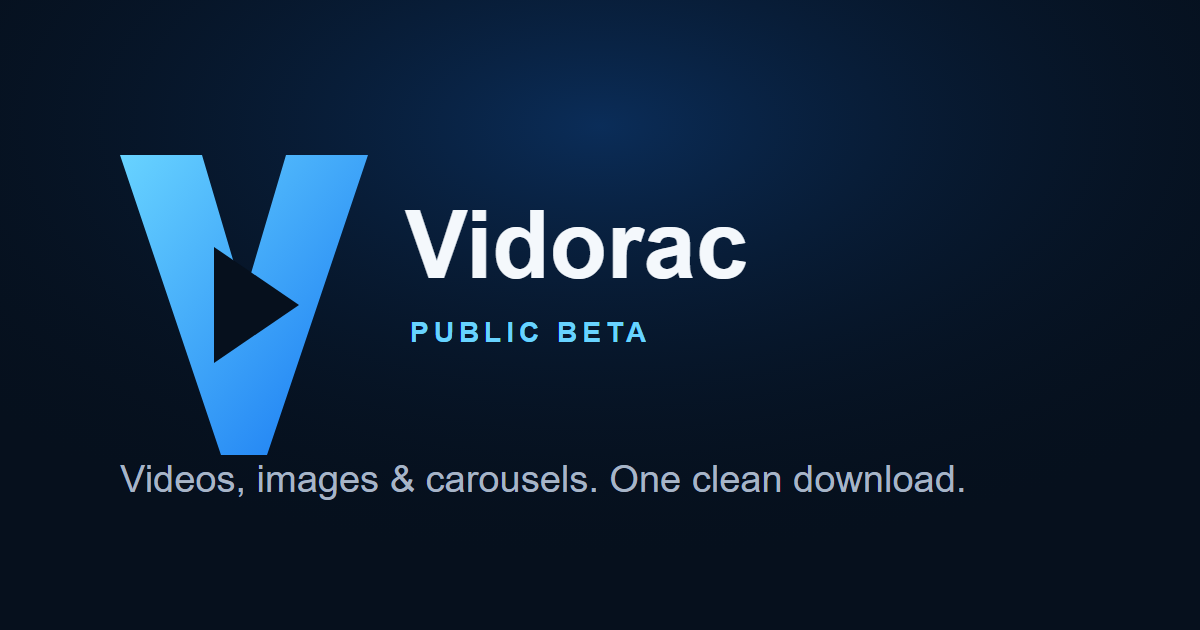
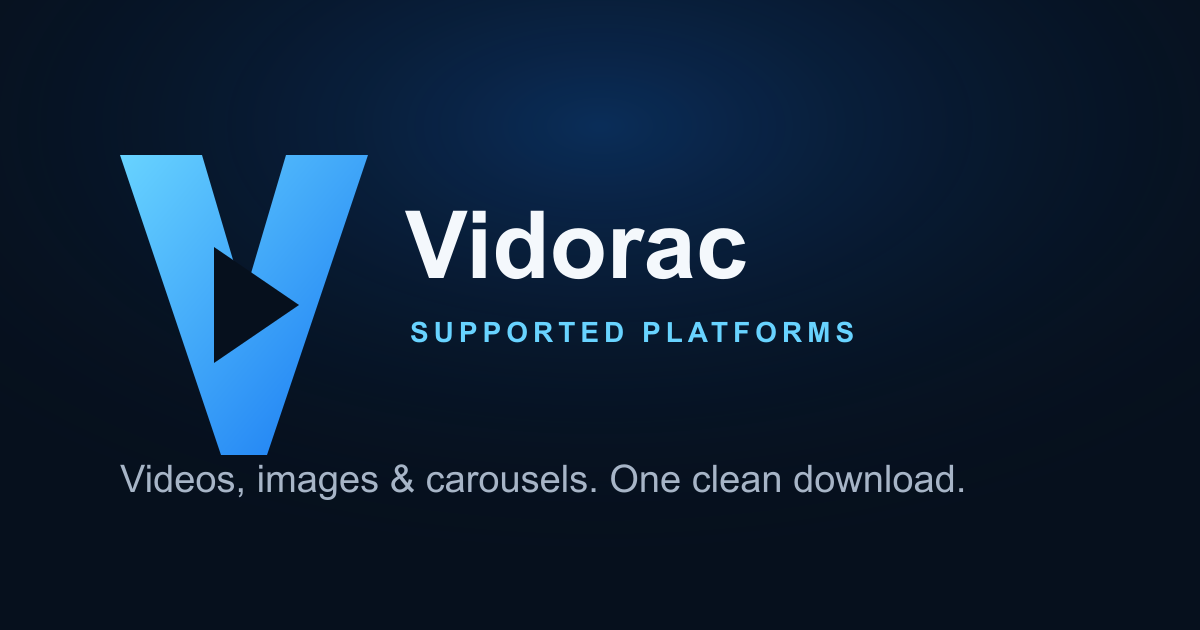
Refine CTA typography and complete AdSense readiness audit

diff --git a/frontend/src/app/terms/page.tsx b/frontend/src/app/terms/page.tsx
@@ -4,7 +4,7 @@ import { informationMetadata } from "../seo";
 
 export const metadata = informationMetadata({
   title: "Terms of Use | Vidorac",
-  description: "Read the terms that apply when using Vidorac to process publicly accessible TikTok media.",
+  description: "Read the terms that apply when using Vidorac to process publicly accessible media from supported platforms.",
   slug: "terms",
 });
 
@@ -13,13 +13,13 @@ export default function TermsPage() {
     <InformationPage
       eyebrow="Legal"
       title="Terms of Use"
-      intro="These terms describe the responsible use of Vidorac during its public beta."
+      intro="These terms describe the responsible use of Vidorac."
     >
       <p className="information-updated">Last updated: September 2026</p>
 
       <section>
         <h2>Service</h2>
-        <p>Vidorac is a public beta tool for processing publicly accessible TikTok videos, photo slideshows and audio.</p>
+        <p>Vidorac is a tool for processing publicly accessible media from supported platforms, including TikTok, Instagram, Facebook, Reddit and X.</p>
       </section>
 
       <section>
@@ -39,12 +39,12 @@ export default function TermsPage() {
 
       <section>
         <h2>Third-party platforms</h2>
-        <p>Vidorac is not affiliated with TikTok or ByteDance. Their trademarks belong to their respective owners, and use of TikTok remains subject to its applicable terms.</p>
+        <p>Vidorac is independent and is not affiliated with or endorsed by TikTok, Instagram, Facebook, Reddit, X or their owners. Their trademarks belong to their respective owners, and use of each platform remains subject to its applicable terms.</p>
       </section>
 
       <section>
         <h2>Availability</h2>
-        <p>Vidorac is currently a beta service. Availability is not guaranteed, and TikTok changes may temporarily affect supported formats or qualities. The service may be changed, interrupted or unavailable while improvements are made.</p>
+        <p>Availability is not guaranteed, and changes made by supported platforms may temporarily affect formats or qualities. The service may be changed, interrupted or unavailable while improvements are made.</p>
       </section>
 
       <section>
@@ -54,12 +54,12 @@ export default function TermsPage() {
 
       <section>
         <h2>No warranty</h2>
-        <p>Vidorac is provided as a public beta without guarantees of uninterrupted or error-free availability. We aim to keep the service useful and reliable, but cannot promise that every source, platform or format will always work.</p>
+        <p>Vidorac is provided without guarantees of uninterrupted or error-free availability. We aim to keep the service useful and reliable, but cannot promise that every source, platform or format will always work.</p>
       </section>
 
       <section>
         <h2>Changes</h2>
-        <p>Vidorac may update the service and these Terms as the beta develops. The latest revision date will be shown on this page.</p>
+        <p>Vidorac may update the service and these Terms as the service develops. The latest revision date will be shown on this page.</p>
       </section>
 
       <section>

diff --git a/frontend/src/app/globals.css b/frontend/src/app/globals.css
@@ -22,7 +22,7 @@
 @theme inline {
   --color-background: var(--background);
   --color-foreground: var(--text);
-  --font-sans: var(--font-geist-sans);
+  --font-sans: var(--font-home-sans);
   --font-mono: var(--font-geist-mono);
 }
 
@@ -38,7 +38,7 @@ body {
   overflow-x: hidden;
   background: var(--background);
   color: var(--text);
-  font-family: var(--font-geist-sans), Arial, Helvetica, sans-serif;
+  font-family: var(--font-home-sans), Arial, Helvetica, sans-serif;
 }
 
 button,
@@ -1759,7 +1759,7 @@ button { -webkit-tap-highlight-color: transparent; }
   width: min(calc(100% - 2rem), 73.75rem);
   min-width: 0;
   margin-inline: auto;
-  font-family: var(--font-home-sans), var(--font-geist-sans), sans-serif;
+  font-family: var(--font-home-sans), Arial, Helvetica, sans-serif;
 }
 
 .home-ad-rail { display: none; }
@@ -1789,7 +1789,7 @@ button { -webkit-tap-highlight-color: transparent; }
   max-width: 58rem;
   flex-direction: column;
   margin-top: 1.35rem;
-  font-family: var(--font-home-sans), var(--font-geist-sans), sans-serif;
+  font-family: var(--font-home-sans), Arial, Helvetica, sans-serif;
   font-size: clamp(3.2rem, 7vw, 5.8rem);
   font-weight: 760;
   letter-spacing: -0.072em;
@@ -2121,7 +2121,7 @@ button { -webkit-tap-highlight-color: transparent; }
 
 /* Shared editorial typography for every downloader page */
 .platform-page {
-  font-family: var(--font-home-sans), var(--font-geist-sans), sans-serif;
+  font-family: var(--font-home-sans), Arial, Helvetica, sans-serif;
 }
 
 .downloader-hero-heading {
@@ -2136,7 +2136,7 @@ button { -webkit-tap-highlight-color: transparent; }
   max-width: 62rem;
   flex-direction: column;
   margin: 1rem auto 0;
-  font-family: var(--font-home-sans), var(--font-geist-sans), sans-serif;
+  font-family: var(--font-home-sans), Arial, Helvetica, sans-serif;
   font-size: clamp(2.7rem, 5.8vw, 4.75rem);
   font-weight: 760;
   letter-spacing: -0.066em;
@@ -2180,7 +2180,7 @@ button { -webkit-tap-highlight-color: transparent; }
   flex-direction: column;
   margin-top: 0.5rem;
   color: var(--text);
-  font-family: var(--font-home-sans), var(--font-geist-sans), sans-serif;
+  font-family: var(--font-home-sans), Arial, Helvetica, sans-serif;
   font-size: clamp(1.65rem, 3vw, 2.35rem);
   font-weight: 720;
   letter-spacing: -0.045em;
@@ -2411,14 +2411,14 @@ button { -webkit-tap-highlight-color: transparent; }
 }
 
 .serif-action-label {
-  font-family: var(--font-home-serif), Georgia, serif;
-  font-size: 1.05rem;
+  font-family: Georgia, "Times New Roman", serif;
+  font-size: 15px;
   font-style: normal;
-  font-weight: 400;
-  letter-spacing: -0.01em;
+  font-weight: 600;
+  letter-spacing: -0.015em;
   line-height: 1;
 }
 
 @media (max-width: 390px) {
-  .serif-action-label { font-size: 1rem; }
+  .serif-action-label { font-size: 14px; }
 }

diff --git a/frontend/src/app/layout.tsx b/frontend/src/app/layout.tsx
@@ -1,17 +1,12 @@
 import type { Metadata } from "next";
 import type { ReactNode } from "react";
-import { Geist, Geist_Mono, Instrument_Serif, Manrope } from "next/font/google";
+import { Geist_Mono, Instrument_Serif, Manrope } from "next/font/google";
 import "./globals.css";
 import SiteHeader from "./site-header";
 import { DonationProvider } from "./donation-modal";
 import { getSupportUrl } from "./support-config";
-import { OG_IMAGE_PATH, SITE_URL } from "./seo";
+import { OG_IMAGE_ALT, OG_IMAGE_PATH, SITE_URL } from "./seo";
 import { TelegramTopBar } from "./telegram-promotion";
-
-const geistSans = Geist({
-  variable: "--font-geist-sans",
-  subsets: ["latin"],
-});
 
 const geistMono = Geist_Mono({
   variable: "--font-geist-mono",
@@ -33,7 +28,7 @@ const homeSerif = Instrument_Serif({
 export const metadata: Metadata = {
   metadataBase: new URL(SITE_URL),
   title: {
-    default: "Vidorac - Free Video Downloader",
+    default: "Vidorac — Video Downloader for TikTok, Instagram, Facebook, Reddit & X",
     template: "%s — Vidorac",
   },
   description: "Download videos and media from TikTok, Instagram, Facebook, Reddit and X with Vidorac.",
@@ -47,16 +42,16 @@ export const metadata: Metadata = {
     shortcut: "/branding/vidorac-icon.svg",
   },
   openGraph: {
-    title: "Vidorac - Free Video Downloader",
+    title: "Vidorac — Video Downloader for TikTok, Instagram, Facebook, Reddit & X",
     description: "Download videos and media from TikTok, Instagram, Facebook, Reddit and X with Vidorac.",
     url: "/",
     siteName: "Vidorac",
     type: "website",
-    images: [{ url: OG_IMAGE_PATH, width: 1200, height: 630, alt: "Vidorac public beta" }],
+    images: [{ url: OG_IMAGE_PATH, width: 1200, height: 630, alt: OG_IMAGE_ALT }],
   },
   twitter: {
     card: "summary_large_image",
-    title: "Vidorac - Free Video Downloader",
+    title: "Vidorac — Video Downloader for TikTok, Instagram, Facebook, Reddit & X",
     description: "Download videos and media from TikTok, Instagram, Facebook, Reddit and X with Vidorac.",
     images: [OG_IMAGE_PATH],
   },
@@ -66,7 +61,7 @@ export default function RootLayout({ children }: { children: ReactNode }) {
   return (
     <html
       lang="en"
-      className={`${geistSans.variable} ${geistMono.variable} ${homeSans.variable} ${homeSerif.variable} h-full antialiased`}
+      className={`${geistMono.variable} ${homeSans.variable} ${homeSerif.variable} h-full antialiased`}
     >
       <body className="min-h-full flex flex-col">
         <DonationProvider supportUrl={getSupportUrl()}>

diff --git a/frontend/src/app/privacy/page.tsx b/frontend/src/app/privacy/page.tsx
@@ -4,7 +4,7 @@ import { informationMetadata } from "../seo";
 
 export const metadata = informationMetadata({
   title: "Privacy Policy | Vidorac",
-  description: "Learn what information Vidorac may process, how temporary media is handled and which third-party services help operate the public beta.",
+  description: "Learn what information Vidorac may process, how temporary media is handled and which third-party services help operate the service.",
   slug: "privacy",
 });
 
@@ -13,7 +13,7 @@ export default function PrivacyPage() {
     <InformationPage
       eyebrow="Legal"
       title="Privacy Policy"
-      intro="This policy explains how Vidorac currently handles information when you use the public beta."
+      intro="This policy explains how Vidorac currently handles information when you use the service."
     >
       <p className="information-updated">Last updated: September 2026</p>
 
@@ -39,7 +39,7 @@ export default function PrivacyPage() {
 
       <section>
         <h2>Temporary media and downloads</h2>
-        <p>Files prepared by the backend are temporary and are generated only to complete a requested download or media operation. They are removed after delivery when applicable, after failed processing, or by automatic cleanup. Prepared download identifiers currently expire after approximately 15 minutes.</p>
+        <p>Files prepared by the backend are temporary and are generated only to complete a requested download or media operation. They are removed after delivery when applicable, after failed processing, or by automatic cleanup. Prepared download identifiers currently expire after 10 minutes.</p>
       </section>
 
       <section>
@@ -55,7 +55,7 @@ export default function PrivacyPage() {
 
       <section>
         <h2>External platforms</h2>
-        <p>Vidorac processes public TikTok URLs to analyze available videos, photo slideshows and audio. Vidorac is not affiliated with TikTok or ByteDance, and their own terms and privacy policies continue to apply.</p>
+        <p>Vidorac processes public links from supported platforms—TikTok, Instagram, Facebook, Reddit and X—to identify media and available formats. Vidorac is independent and is not affiliated with or endorsed by those platforms; their terms and privacy policies continue to apply.</p>
       </section>
 
       <section>

diff --git a/frontend/src/app/page.tsx b/frontend/src/app/page.tsx
@@ -5,13 +5,27 @@ import HomeFaq from "./home-faq";
 import PlatformBrandIcon from "./platform-brand-icon";
 import { platformConfigs, platformOrder } from "./platform-config";
 import SiteFooter from "./site-footer";
-import { SITE_URL } from "./seo";
+import { OG_IMAGE_ALT, OG_IMAGE_PATH, SITE_URL } from "./seo";
 import { TelegramHomepageCard } from "./telegram-promotion";
 
 export const metadata: Metadata = {
   title: { absolute: "Vidorac — Video Downloader for TikTok, Instagram, Facebook, Reddit & X" },
   description: "Choose a supported platform and download compatible public videos, audio and media with Vidorac — directly in your browser.",
   alternates: { canonical: `${SITE_URL}/` },
+  openGraph: {
+    title: "Vidorac — Video Downloader for TikTok, Instagram, Facebook, Reddit & X",
+    description: "Choose a supported platform and download compatible public videos, audio and media with Vidorac — directly in your browser.",
+    url: `${SITE_URL}/`,
+    siteName: "Vidorac",
+    type: "website",
+    images: [{ url: OG_IMAGE_PATH, width: 1200, height: 630, alt: OG_IMAGE_ALT }],
+  },
+  twitter: {
+    card: "summary_large_image",
+    title: "Vidorac — Video Downloader for TikTok, Instagram, Facebook, Reddit & X",
+    description: "Choose a supported platform and download compatible public videos, audio and media with Vidorac — directly in your browser.",
+    images: [OG_IMAGE_PATH],
+  },
 };
 
 const steps = [

diff --git a/frontend/src/app/tiktok-landing.tsx b/frontend/src/app/tiktok-landing.tsx
@@ -50,7 +50,7 @@ export default function TikTokLanding({ content }: { content: TikTokLandingConte
 
       <section className="seo-section seo-section-bordered" aria-labelledby="faq-title"><EditorialSectionHeading eyebrow="Frequently asked questions" title="Common questions" accent="answered clearly" id="faq-title" layout="seo" /><div className="faq-list">{content.faqs.map((faq) => <details key={faq.question}><summary>{faq.question}</summary><p>{faq.answer}</p></details>)}</div></section>
       <OtherDownloaders currentPlatform="tiktok" />
-      <section className="seo-section seo-donate-section seo-section-bordered"><div><p className="section-label">Keep the beta online</p><h2>Vidorac is free to use.</h2><p>If it helped you, an optional donation can help keep the project online.</p></div><SupportButton label="Donate to Vidorac" variant="card" /></section>
+      <section className="seo-section seo-donate-section seo-section-bordered"><div><p className="section-label">Keep Vidorac online</p><h2>Vidorac is free to use.</h2><p>If it helped you, an optional donation can help keep the project online.</p></div><SupportButton label="Donate to Vidorac" variant="card" /></section>
       <SiteFooter />
     </main>
   );

diff --git a/frontend/src/app/seo.ts b/frontend/src/app/seo.ts
@@ -1,7 +1,8 @@
 import type { Metadata } from "next";
 
-export const SITE_URL = "https://vidorac.pages.dev";
+export const SITE_URL = "https://vidorac.com";
 export const OG_IMAGE_PATH = "/branding/vidorac-og.png";
+export const OG_IMAGE_ALT = "Vidorac video downloader for supported social platforms";
 
 export type PlatformSlug =
   | "tiktok"
@@ -47,7 +48,7 @@ export function platformMetadata({
       url,
       siteName: "Vidorac",
       type: "website",
-      images: [{ url: OG_IMAGE_PATH, width: 1200, height: 630, alt: "Vidorac public beta" }],
+      images: [{ url: OG_IMAGE_PATH, width: 1200, height: 630, alt: OG_IMAGE_ALT }],
     },
     twitter: {
       card: "summary_large_image",
@@ -78,7 +79,13 @@ export function informationMetadata({
       url,
       siteName: "Vidorac",
       type: "website",
-      images: [{ url: OG_IMAGE_PATH, width: 1200, height: 630, alt: "Vidorac public beta" }],
+      images: [{ url: OG_IMAGE_PATH, width: 1200, height: 630, alt: OG_IMAGE_ALT }],
+    },
+    twitter: {
+      card: "summary_large_image",
+      title,
+      description,
+      images: [OG_IMAGE_PATH],
     },
   };
 }

diff --git a/frontend/src/app/tiktok-downloader/page.tsx b/frontend/src/app/tiktok-downloader/page.tsx
@@ -23,7 +23,7 @@ export default function TikTokDownloaderPage() {
       { title: "MP3 audio", text: "Extract the available audio from an eligible TikTok video as MP3." },
       { title: "Photo slideshows", text: "Download one image, a selection, or all available slideshow images." },
     ],
-    limitations: ["Public individual posts only.", "Quality and audio availability vary by source.", "Maximum prepared download size applies during Beta.", "Vidorac is not affiliated with TikTok or ByteDance."],
+    limitations: ["Public individual posts only.", "Quality and audio availability vary by source.", "A maximum prepared download size applies.", "Vidorac is not affiliated with TikTok or ByteDance."],
     faqs: [
       { question: "Which TikTok links are supported?", answer: "Public tiktok.com video links and compatible TikTok short links can be analyzed when the existing secure validator accepts them." },
       { question: "Can I download TikTok audio?", answer: "Yes. Download MP3 appears for eligible videos when Vidorac can access an audio stream and safely convert it." },

diff --git a/frontend/src/app/analyzer.tsx b/frontend/src/app/analyzer.tsx
@@ -104,7 +104,7 @@ function publicDownloadError(platform: PlatformId, detail?: string): string {
   if (detail.includes("selected media")) return "That item is no longer available in this post. Analyze it again.";
   if (detail.includes("not available")) return "This media is no longer available.";
   if (detail.includes("format")) return "This format is not available for this video.";
-  if (detail.includes("250 MB") || detail.includes("too large")) return "This file is too large for the current Vidorac Beta limits.";
+  if (detail.includes("250 MB") || detail.includes("too large")) return "This file is too large for the current Vidorac limits.";
   if (detail.includes("3-hour")) return "This video is longer than Vidorac's 3-hour limit.";
   if (detail.includes("FFmpeg")) return "Vidorac needs FFmpeg to prepare this format.";
   return "We couldn't prepare this download. Please try again.";

diff --git a/frontend/src/app/contact/page.tsx b/frontend/src/app/contact/page.tsx
@@ -4,7 +4,7 @@ import { informationMetadata } from "../seo";
 import ContactForm from "./contact-form";
 
 export const metadata = informationMetadata({
-  title: "Contact Vidorac | Vidorac Beta",
+  title: "Contact Vidorac",
   description: "Contact Vidorac with questions, feedback, bug reports, copyright concerns or general enquiries.",
   slug: "contact",
 });
